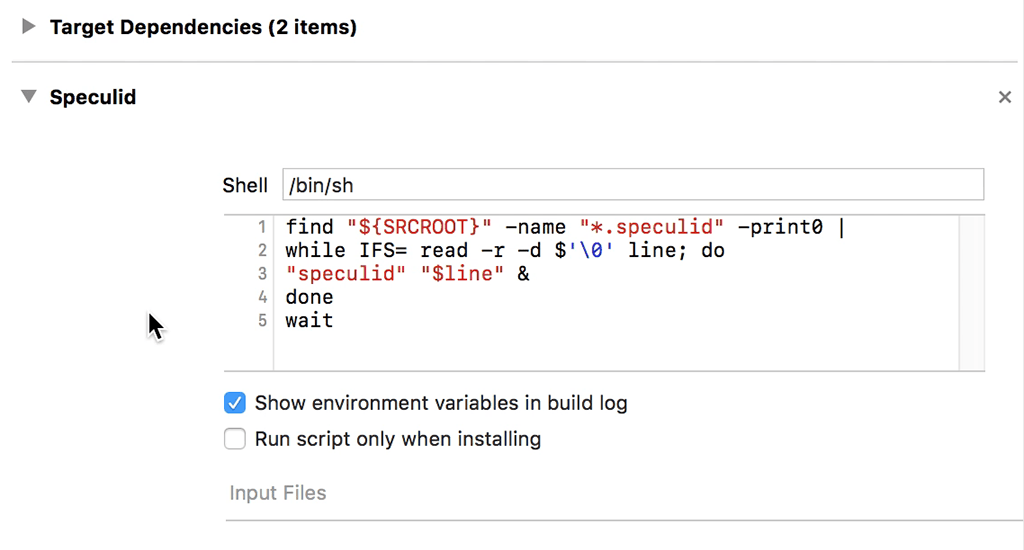
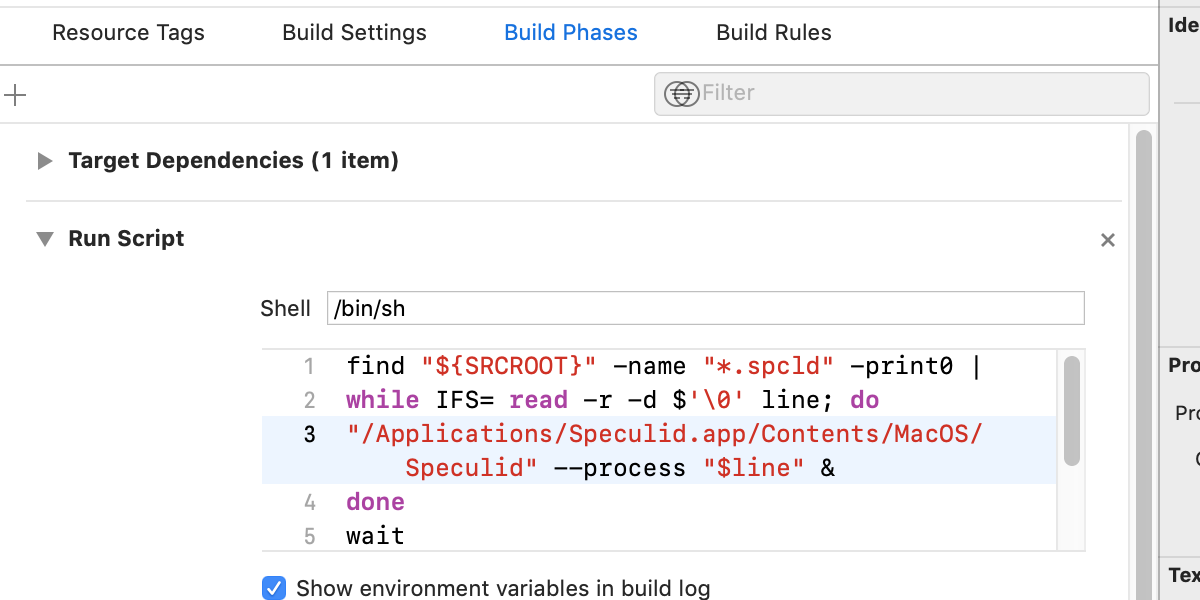
updated graphics

diff --git a/assets/css/style.scss b/assets/css/style.scss
@@ -75,8 +75,8 @@ body, input, button {
     border-radius: 5px;
     font-weight: bold;
     img {
-      height: 1.5em;
-      margin: 5px 20px 0px 5px;
+      height: 1em;
+      margin: 10px;
     }
     span {
       margin-top: 10px;
@@ -92,33 +92,38 @@ body, input, button {
 }
 
 .signup-form-container {
-  background-color: $code-bg-color;
+  background-color: saturate($code-bg-color, 33%);
   padding: 40px;
   display: table;
+  border: 1px $border-color solid;
+  border-radius: 5px;
   .message {
     display: table-row;
-    visiblity: collapse;
-    
-    opacity: 0.5;
-    &.visible {
+    & , &.success {
+      visiblity: hidden;
+      opacity: 0;
+    }
+    &.visible,  &.failure {
       visiblity: visible;
+      opacity: 0.5;
     }
     &.failure {
       color: #F00;
     }
     &.success {
-      color: #0F0;
+      color: $section-headings-color;
     }
   }
   form.signup-form {
     width: 100%;
-    display: table-row;
+    .row {
+    display: flex;
     input {
-      display: table-cell;
       margin: 10px;
       padding: 5px 10px;
       border-radius: 5px;
       border: 1px transparentize(#000, 0.8) solid;
+      width: 186px;
       &:first-child {
         margin-left: 0px;
       }
@@ -126,7 +131,7 @@ body, input, button {
         margin-right: 0px;
       }
       &[type="email"] {
-        width: 25em;
+        flex-grow: 1;
       }
       &[type="submit"] {
         background-color: darken($body-link-color, 10%);
@@ -139,7 +144,9 @@ body, input, button {
           color: #fff;
           background-color: $body-link-color;
         }
+        width: 186px;
       }
+    }
     }
   }
 }

diff --git a/_layouts/default.html b/_layouts/default.html
@@ -37,12 +37,12 @@
     <section class="main-content">
       {{ content }}
 
-      <footer class="site-footer">
+<!--       <footer class="site-footer">
         {% if site.github.is_project_page %}
           <span class="site-footer-owner"><a href="{{ site.github.repository_url }}">{{ site.github.repository_name }}</a> is maintained by <a href="{{ site.github.owner_url }}">{{ site.github.owner_name }}</a>.</span>
         {% endif %}
         <span class="site-footer-credits">This page was generated by <a href="https://pages.github.com">GitHub Pages</a>.</span>
-      </footer>
+      </footer> -->
     </section>
 
     {% if site.google_analytics %}

diff --git a/assets/js/signup-form.js b/assets/js/signup-form.js
@@ -23,9 +23,11 @@ document.addEventListener("DOMContentLoaded", function(event) {
   		$message.classList.add(type);
   		$message.classList.add('visible');
 
-  		window.setTimeout(function() {
-  			$message._hide();
-  		}, 3000);
+      if (type == "success") {
+    		window.setTimeout(function() {
+    			$message._hide();
+    		}, 3000);
+      }
 
   	};
 

diff --git a/README.md b/README.md
@@ -41,7 +41,7 @@ For Apple developers, there is no application which prepares graphics files for 
 ### What Speculid Does
 
 
-![diagram](https://raw.githubusercontent.com/brightdigit/speculid/master/assets/images/Diagram.png)
+![diagram](/images/Diagram.png)
 
 <section class="cards" markdown="1">
 <section class="card half" markdown="1">
@@ -65,14 +65,14 @@ Speculid automates the process so **only one graphic file is needed**. Add Specu
 * Allow the **Removal of Transparency for App Icons**
 
 ## Download
-   
-If you are interested in **downloading and using the current alpha, fill out the form below** and you will receive a link to latest version.
 
 <section class="signup-form-container">
-  <div></div>
+  <div>If you are interested in <strong>downloading and using the current alpha, fill out the form below</strong> and you will receive a link to latest version.</div>
 <form action="//brightdigit.us12.list-manage.com/subscribe/post-json?u=cb3bba007ed171091f55c47f0&amp;id=19a8f55024" class="signup-form" method="post">
+  <div class="row">
   <input type="email" placeholder="Your Email Address" value="" name="EMAIL" id="mce-EMAIL" required>
   <input type="submit" value="Download">
+  </div>
 </form>
 <div class="message">
   &nbsp;
@@ -114,7 +114,7 @@ or
 
 #### Set `set`
 
-<img src="https://raw.githubusercontent.com/brightdigit/speculid/master/assets/images/SetExample.png" width="320" height="240" alt="Image Set Examples from Xcode">
+<img src="/images/SetExample.png" width="320" height="240" alt="Image Set Examples from Xcode">
 
 A set is an image set or app icon set used by Xcode. That path specified in the json could be relative to the `.speculid` file.
 
@@ -143,9 +143,9 @@ To specifically remove the alpha channel, a true boolean value must be specified
 
 With **Speculid**, the process of building image assets can be automated in **Xcode**.
 
-1. Add the speculid files to your source root as well as your source graphic files. 
+1. Create and add the speculid files to your project folder as well as your source graphic files. 
 
-![Xcode Target Membership](https://raw.githubusercontent.com/brightdigit/speculid/master/assets/images/XcodeTargetMembership.png)
+![Xcode Target Membership](/images/XcodeTargetMembership.png)
 
   * *Note: you don't need to add these files to your target membership*
 
@@ -154,17 +154,17 @@ With **Speculid**, the process of building image assets can be automated in **Xc
   ```bash
   find "${SRCROOT}" -name "*.speculid" -print0 |
   while IFS= read -r -d $'\0' line; do
-  speculid "$line" &
+  speculid --process "$line" &
   done
   wait
   ```
-![Xcode Build Phase Run Script](https://raw.githubusercontent.com/brightdigit/speculid/master/assets/images/XcodeBuildPhaseRunScript.png)
+![Xcode Build Phase Run Script](/images/XcodeBuildPhaseRunScript.png)
 
-3. Build the application. This will create the graphics which you will use in your asset image set or app icon.
+3. **Build the application.** This will create the graphics which you will use in your asset image set or app icon.
 
-![Xcode Unorganized Assets](https://raw.githubusercontent.com/brightdigit/speculid/master/assets/images/XcodeUnorganizedAssets.png)
+![Xcode Unorganized Assets](/images/XcodeUnorganizedAssets.png)
 
-4. Drag the images to the correct asset slot. Each rendered image file is suffixed denoting its slot.
+4. **After the first build**, drag the images to the correct asset slot. Each rendered image file is suffixed denoting its slot.
 
   *(source file base name)*.*(size)*@*(scale)*~*(idiom)*.(extension)
 
@@ -175,5 +175,7 @@ With **Speculid**, the process of building image assets can be automated in **Xc
   * **logo.83.5x83.5@2x~ipad.png** - 83.5x83.5 size 2x scale for iPad
 
 5. Build and Run. Done.
+
+-----
 
 **Speculid** ©2018, BrightDigit, LLC. 
